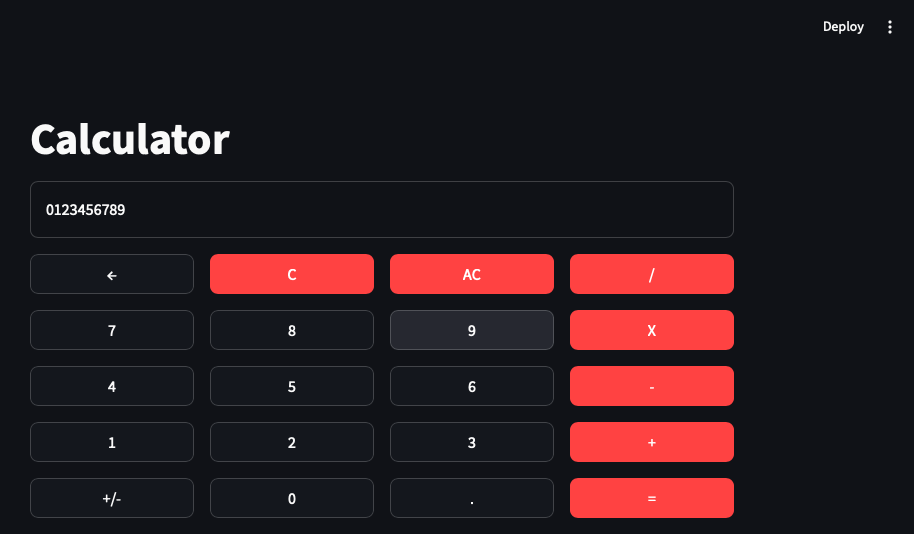
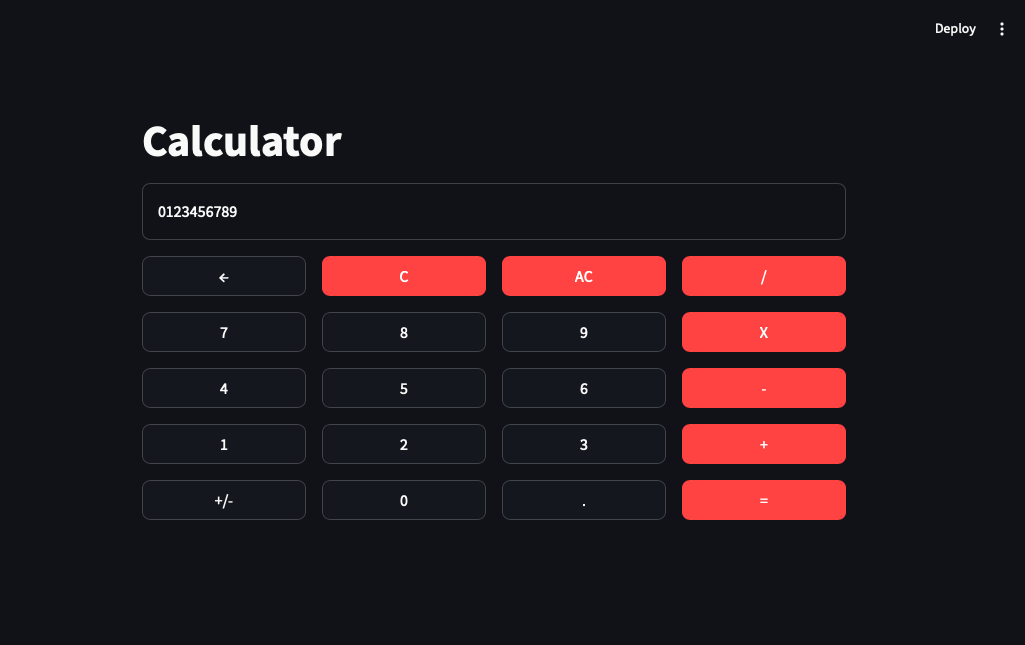
edit

diff --git a/source/calculator/calculator_10/calculator_10_3.rst b/source/calculator/calculator_10/calculator_10_3.rst
@@ -19,31 +19,6 @@ open the project
 
     cd calculator
 
-* I make a new test file_ for the Streamlit_ website
-
-  .. code-block:: shell
-    :emphasize-lines: 1
-
-    touch tests/test_streamlit_calculator.py
-
-* I add streamlit_ to the ``requirements.txt`` file_
-
-  .. code-block:: shell
-    :emphasize-lines: 1
-
-    echo "streamlit" >> requirements.txt
-
-  Streamlit_ is a Python_ library that is used for making websites, it is not part of `The Python Standard Library`_
-
-* I install the `Python packages`_ that I wrote in the requirements file_
-
-  .. code-block:: python
-    :emphasize-lines: 1
-
-    uv add --requirement requirements.txt
-
-  the terminal shows it installed the `Python packages`_
-
 * I use ``pytest-watcher`` to run the tests
 
   .. code-block:: shell
@@ -58,12 +33,41 @@ open the project
 
     rootdir: .../pumping_python/calculator
     configfile: pyproject.toml
-    collected 8 items
+    collected 12 items
 
-    tests/test_calculator.py .....                                [ 62%]
-    tests/test_calculator_website.py ...                          [100%]
+    tests/test_calculator.py .....                                [ 41%]
+    tests/test_calculator_website.py ...                          [ 66%]
+    tests/test_streamlit_calculator.py ....                       [100%]
 
-    ======================== 5 passed in X.YZs =========================
+    ======================== 12 passed in X.YZs =========================
+
+* I open another terminal_ then use uv_ in the ``calculator`` folder_
+
+  .. code-block:: python
+    :emphasize-lines: 1
+
+    uv run streamlit run src/streamlit_calculator.py
+
+  the terminal_ shows
+
+  .. code-block:: shell
+
+    Collecting usage statistics.
+    To deactivate, set browser.gatherUsageStats to false.
+
+
+      You can now view your Streamlit app in your browser.
+
+      Local URL: http://localhost:8501
+      Network URL: http://ABC.DEF.GHI.JKL:8501
+      External URL: http://MNO.PQR.STU.VWX:8501
+
+  I use :kbd:`ctrl/option` on the keyboard and click on ``http://localhost:8501`` with the mouse to open the browser and it shows
+
+  .. image:: /_static/calculator/streamlit/primary_buttons.png
+    :width: 600
+    :align: left
+    :alt: Calculator Streamlit Primary Buttons
 
 ----
 
@@ -84,7 +88,7 @@ streamlit_ has a `session state object`_ that I can use to keep values in betwee
 I add a test for the `session state object`_, I want it to hold the number when I click the buttons, in ``test_streamlit_calculator.py``
 
 .. code-block:: python
-  :lineno-start: 46
+  :lineno-start: 47
   :emphasize-lines: 9-10
 
       def test_streamlit_calculator_operations_buttons(self):
@@ -120,17 +124,19 @@ the terminal_ shows :ref:`KeyError<test_key_error>`
 * I use the :ref:`setdefault method<test_setdefault_adds_given_key_to_a_dictionary>` to add a :ref:`key<test_keys_of_a_dictionary>` that will hold the numbers to show in the Calculator, in ``streamlit_calculator.py``
 
   .. code-block:: python
-    :lineno-start: 83
+    :lineno-start: 90
     :emphasize-lines: 3
 
     def main():
         streamlit.title('Calculator')
         streamlit.session_state.setdefault('number', '0')
-        add_buttons()
+        display = streamlit.container(border=True)
 
-
-    if __name__ == '__main__':
-        main()
+        column_1, column_2, column_3, operations = streamlit.columns(4)
+        add_buttons_to_column_1(column_1, display)
+        add_buttons_to_column_2(column_2, display)
+        add_buttons_to_column_3(column_3, display)
+        add_buttons_to_column_4(operations)
 
   the terminal_ shows :ref:`AssertionError<what causes AssertionError?>`
 
@@ -138,13 +144,27 @@ the terminal_ shows :ref:`KeyError<test_key_error>`
 
     AssertionError: 0 is not None
 
-* I change the assertIsNone_ to assertEqual_ in ``test_streamlit_calculator.py``
+* I add ``0`` as the expectation in ``test_streamlit_calculator.py``
 
   .. code-block:: python
-    :lineno-start: 107
+    :lineno-start: 55
     :emphasize-lines: 2
 
         def test_streamlit_calculator_state(self):
+            self.assertIsNone(self.tester.session_state['number'], '0')
+
+  the terminal_ shows :ref:`AssertionError<what causes AssertionError?>`
+
+  .. code-block:: python
+
+    AssertionError: '0' is not None : 0
+
+* I change the assertIsNone_ to assertEqual_
+
+  .. code-block:: python
+    :lineno-start: 56
+    :emphasize-lines: 1
+
             self.assertEqual(self.tester.session_state['number'], '0')
 
   the test passes
@@ -161,12 +181,15 @@ the terminal_ shows :ref:`KeyError<test_key_error>`
 
   .. code-block:: python
     :lineno-start: 4
-    :emphasize-lines: 2-5
+    :emphasize-lines: 2-4
 
     def show(display, number):
         # display.write(number)
         streamlit.session_state['number'] += number
         display.write(streamlit.session_state['number'])
+
+
+    def add_buttons_to_column_1(column_1, display):
 
   the test passes
 
@@ -182,8 +205,8 @@ the terminal_ shows :ref:`KeyError<test_key_error>`
 * I add an :ref:`assertion<what is an assertion?>` to test what happens to the `session state object`_ when I press a button for a number
 
   .. code-block:: python
-    :lineno-start: 54
-    :emphasize-lines: 3
+    :lineno-start: 55
+    :emphasize-lines: 3-4
 
         def test_streamlit_calculator_state(self):
             self.assertEqual(self.tester.session_state['number'], '0')
@@ -204,19 +227,22 @@ the terminal_ shows :ref:`KeyError<test_key_error>`
 * I change the expectation to match
 
   .. code-block:: python
-    :lineno-start: 57
+    :lineno-start: 58
     :emphasize-lines: 1
 
             self.assertEqual(self.tester.session_state['number'], '01')
 
   the test passes
 
-* I add more button clicks
+* I add more button presses and another :ref:`assertion<what is an assertion?>`
 
   .. code-block:: python
-    :lineno-start: 57
-    :emphasize-lines: 2-5
+    :lineno-start: 55
+    :emphasize-lines: 5-8
 
+        def test_streamlit_calculator_state(self):
+            self.assertEqual(self.tester.session_state['number'], '0')
+            self.tester.button('1').click().run()
             self.assertEqual(self.tester.session_state['number'], '01')
             self.tester.button('2').click().run()
             self.tester.button('3').click().run()
@@ -232,7 +258,7 @@ the terminal_ shows :ref:`KeyError<test_key_error>`
 * I change the expectation to match
 
   .. code-block:: python
-    :lineno-start: 61
+    :lineno-start: 62
     :emphasize-lines: 1-3
 
             self.assertEqual(
@@ -253,7 +279,7 @@ the terminal_ shows :ref:`KeyError<test_key_error>`
 * I want the calculator to remove ``0`` when it is the first number after I click on other numbers. I change the :ref:`assertions<what is an assertion?>`
 
   .. code-block:: python
-    :lineno-start: 54
+    :lineno-start: 55
     :emphasize-lines: 4, 8-10
 
         def test_streamlit_calculator_state(self):

diff --git a/source/calculator/calculator_10/calculator_10_2.rst b/source/calculator/calculator_10/calculator_10_2.rst
@@ -2390,11 +2390,7 @@ close the project
 review
 *********************************************************************************
 
-I made a website using Streamlit_ with a
-
-* :ref:`title<test_streamlit_calculator_title>`
-* :ref:`display<test_streamlit_calculator_display>` and
-* :ref:`buttons<test_streamlit_calculator_columns_and_buttons>`
+I made a website using Streamlit_ with a :ref:`title<test_streamlit_calculator_title>`, :ref:`display<test_streamlit_calculator_display>` and :ref:`buttons<test_streamlit_calculator_columns_and_buttons>`
 
 *************************************************************************************
 code from the chapter

diff --git a/source/functions/index.rst b/source/functions/index.rst
@@ -1602,7 +1602,7 @@ because ...
 * The problem with giving arguments this way is that they always have to be in the order the :ref:`function<what is a function?>` expects or I get something different. I add a test to ``test_functions.py`` to show this
 
   .. code-block:: python
-    :lineno-start: 44
+    :lineno-start: 26
     :emphasize-lines: 6-9
 
         def test_functions_w_positional_arguments(self):
